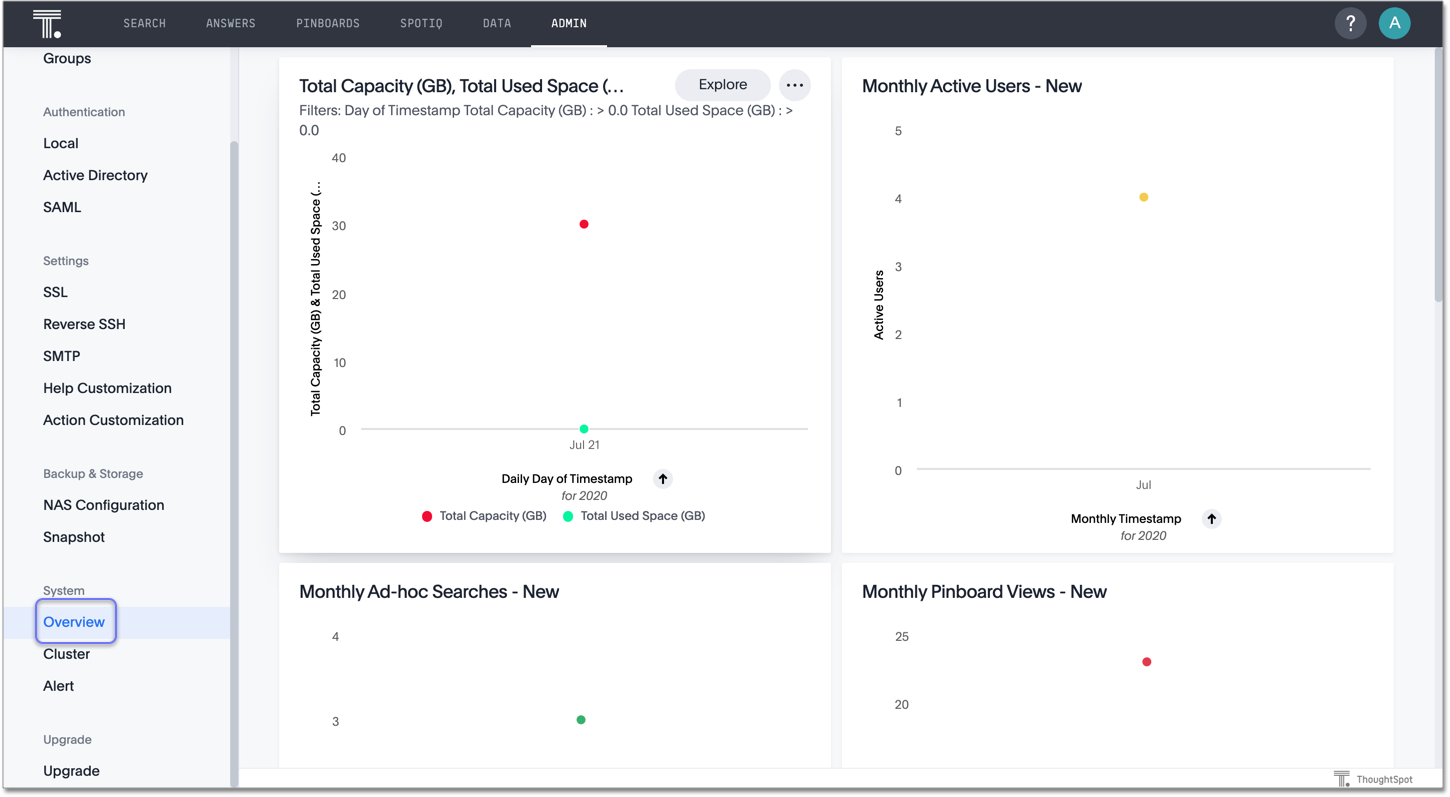
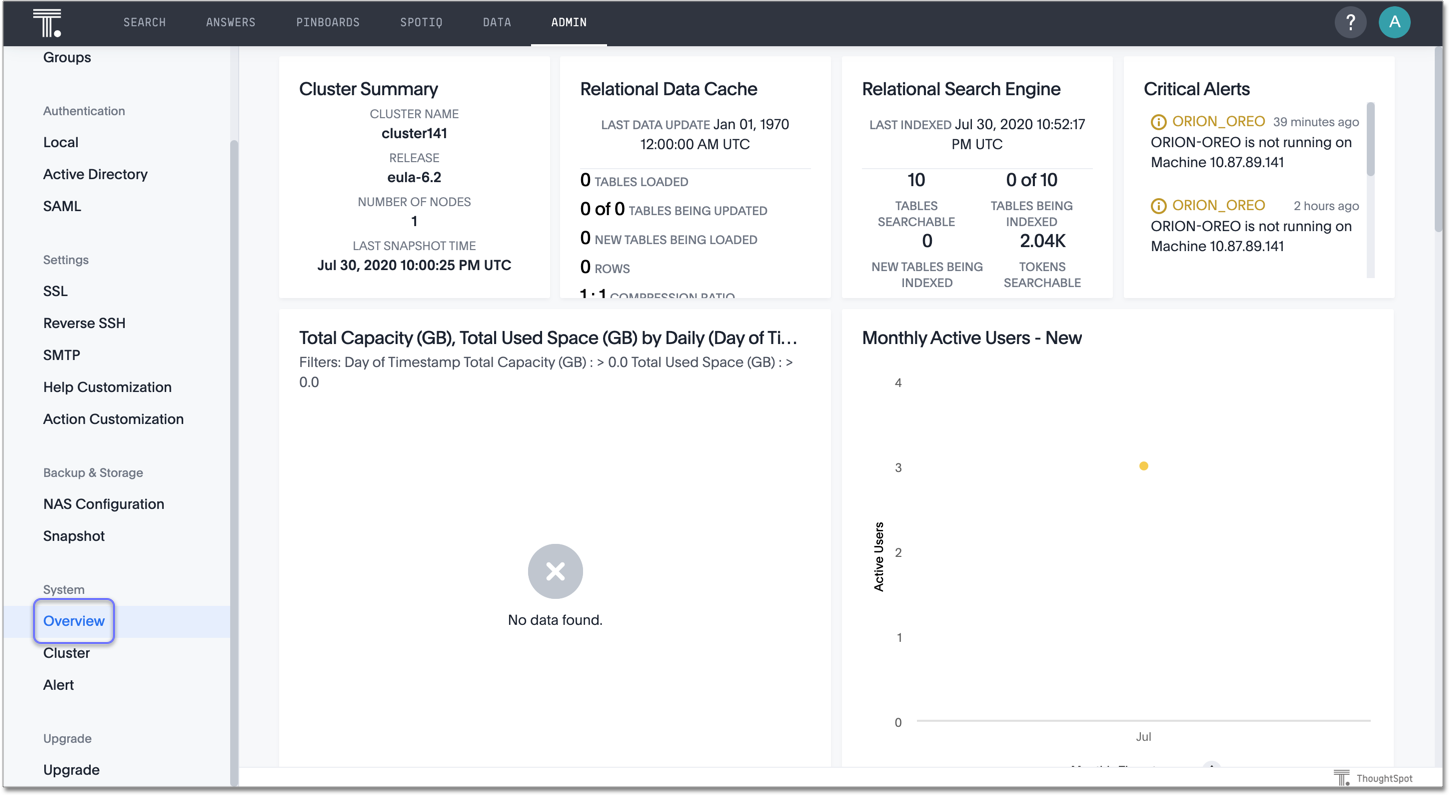
fixes to system pinboards info

diff --git a/_includes/content/admin-portal/system-overview-pinboard.md b/_includes/content/admin-portal/system-overview-pinboard.md
@@ -8,14 +8,133 @@ The **System Overview Pinboard** page consists of standard ThoughtSpot Answers t
 
 The **more options menu** ![]({{ site.baseurl }}/images/icon-more-10px.png){: .inline} for the Answers in this Pinboard contains fewer options than the traditional menu. You can **SpotIQ analyst**, **download**, **edit,** or **present** the Answer. When you **edit** the Answer, you see the query that ThoughtSpot built the Answer on. You can also copy the Answer's embed link, use [Answer Explorer]({{ site.baseurl }}/end-user/pinboards/answer-explorer.html) on the Answer, or interact with the Answer by [drilling down]({{ site.baseurl }}/complex-search/drill-down.html). While you can interact with and change a copied version of the Answer, you cannot save changes to the underlying query.
 
-The following charts are available on the **System Overview Pinboard**: [space utilization](#space-utilization), [monthly active users](#mau), [monthly ad-hoc searches](#monthly-searches), [monthly Pinboard views,](#monthly-pb-views), [top users last month](#top-users), [top Pinboards last month](#top-pinboards), [ad-hoc search by user](#searches-user), and [today's users](#users-today).
+The following chart, tables, and panels are available on the **System Overview Pinboard**: [cluster summary](#cluster-summary), [relational data cache](#relational-data-cache), [relational search engine](#relational-search-engine), [critical alerts](#critical-alerts), [space utilization](#space-utilization), [monthly active users](#mau), [monthly ad-hoc searches](#monthly-searches), [monthly Pinboard views,](#monthly-pb-views), [top users last month](#top-users), [top Pinboards last month](#top-pinboards), [ad-hoc search by user](#searches-user), and [today's users](#users-today).
+
+{: id="cluster-summary"}
+## Cluster Summary
+
+This system panel contains basic information about your cluster.  The **NUMBER OF
+NODES** is the number of installed nodes. This doesn't reflect the active nodes
+which may be more or less.
+
+This summary includes the **LAST SNAPSHOT TIME** it reflects whether regular
+snapshots of your cluster are collected. This value should update regularly in
+real time. If you do not see it change or empty, you should check your cluster
+snapshot policy using the `tscli` command:  
+
+```
+$ tscli snapshot-policy show
+schedule {
+  period {
+    number: 1
+    unit: HOUR
+  }
+  retention_policy {
+    bucket {
+      time {
+        number: 1
+        unit: HOUR
+      }
+      capacity: 3
+    }
+    bucket {
+      time {
+        number: 4
+        unit: HOUR
+      }
+      capacity: 2
+    }
+  }
+  offset_minutes_from_sunday_midnight: 0
+}
+enabled: false
+```
+
+You can see this policy is disabled, which is a problem. Production clusters
+should enable the default snapshot policy. When you show or enable the snapshot
+policy, you can see your `tscli` command reflected in the **Configuration
+Events** panel on this same page.
+
+### Display the features used in a cluster configuration
+
+1. Log in to the ThoughtSpot cluster as the `admin` user.
+2. Use the `tscli feature` subcommand to display your current configuration.
+
+    ```
+    $ tscli feature get-all-config
+    +---------------------------------+----------+---------------+
+    |              NAME               |  STATUS  | CONFIGURATION |
+    +---------------------------------+----------+---------------+
+    | Firewall                        | Disabled |               |
+    | Saml                            | Disabled |               |
+    | Ldap                            | Disabled |               |
+    | CustomBranding                  | Disabled |               |
+    | CustomBrandingFontCustomization | Disabled |               |
+    | DataConnect                     | Disabled |               |
+    | RLS                             | Enabled  |               |
+    | Callhome                        | Enabled  |               |
+    | SSHTunnel                       | Enabled  |               |
+    | Fileserver                      | Disabled |               |
+    +---------------------------------+----------+---------------+
+    ```
+
+{: id="relational-data-cache"}
+## Relational Data Cache
+
+This section reports real-time information about tables in your cluster.
+Worksheet data is not included.
+
+| Value  |  Description |
+|---|---|
+|  **TABLES LOADED** | Number of currently loaded tables.  |
+|  **TABLES BEING UPDATED** | Number of table loads in-progress. |
+|  **NEW TABLES BEING LOADED** | Number of tables being loaded for the first time.  |
+|  **ROWS** | Number of rows combined across all tables in ThoughtSpot.  |
+
+{: id="relational-search-engine"}
+## Relational Search Engine
+
+| Value  |  Description |
+|---|---|
+|  **TABLES SEARCHABLE** | Tables that are indexed and can be searched.  |
+|  **TABLES BEING INDEXED** | Total of in-progress table indexing. |
+|  **NEW TABLES BEING INDEXED** | Total of first-time, in-progress table indexing.  |
+|  **TOKENS SEARCHABLE** | Number of tokens of all table (combined) indexed in ThoughtSpot. |
+
+{: id="critical-alerts"}
+## Critical Alerts
+
+Displays critical and warning alerts. This includes when an alert was generated
+and from which service and machine. Administrators can get a custom report by
+issuing a `tscli alert list` on the appliance:
+
+```
+tscli alert list --since 4w
+```
+
+The critical alerts you can encounter in this display are the following:
+
+{% for item in site.data.extract-alerts.alerts %}  
+  {% if item.type == "CRITICAL" %}
+
+* `{{item.id}}`
+
+  **Msg**: `{{item.msg}}`
+
+  {{item.description}}
+   {% endif %}
+ {% unless forloop.last %}
+ {% endunless %}
+{% endfor %}
+
+The possible alert types are `CRITICAL`, `WARNING`, `ERROR`, and `INFO`. For a
+full reference, see the [Alert code reference]({{ site.baseurl
+}}/reference/alerts-reference.html#).
 
 {: id="space-utilization"}
 ## Space Utilization
 
-The **Space Utilization** chart is one of the available charts for you to use
-when checking the cluster overview. This line chart displays the total capacity
-and estimated used capacity over time.
+The **Space Utilization** chart displays your cluster's total capacity and estimated used capacity over time.
 
 ![Space utilization]({{ site.baseurl }}/images/admin-portal-overview-pinboard-space-utilization.png "Space Utilization")
 
@@ -137,7 +256,7 @@ The query uses the `TS: BI Server` data source.
 {: id="top-pinboards"}
 ## Top Pinboards Last Month
 
-This Answer shows the top ThoughtSpot Pinboards ranked by number of views in the last 30 days. 
+This Answer shows the top ThoughtSpot Pinboards ranked by number of views in the last 30 days.
 
 The query underlying this Answer is:
 
@@ -180,3 +299,54 @@ user !={null}
 today
 ```
 The query uses the `TS: BI Server` data source.
+
+## Configuration Events
+
+This system answer displays recent events that changed the configuration of the
+system. This panel displays configuration events related to:
+
+<table>
+    <colgroup>
+    <col width="25%" />
+    <col width="60%" />
+    </colgroup>
+      <tbody>
+       <tr>
+        <th>
+        Cluster Configuration
+        </th>
+        <td>Reports configuration actions from the <code>tscli</code> and <code>tql</code> commands. </td>
+       </tr>
+       <tr>
+        <th>
+         Metadata Management
+        </th>
+        <td>Events related to metadata such as column names, column visibility, column and data definition, column rank and so forth.</td>
+       </tr>
+       <tr>
+        <th>
+         User Management
+        </th>
+        <td>Events related to creating, updating, or adding new users and groups. </td>
+       </tr>
+       </tbody>
+    </table>
+
+For a more detailed list, including the user that issued a command, you can use
+the `tscli event list` command. Administrators can `ssh` into the cluster and
+specify a time period or even a type of command to include.
+
+```
+[admin@testsystem ~]$ tscli event list --since 3d
++-------------------------------+-----------------------+----------------------------+
+|             DATE              |       USER            |           SUMMARY          |
++-------------------------------+-----------------------+----------------------------+
+| 2018-03-06 11:57:10 -0800 PST |eadmin@thoughtspot.int | User Management: User      |
+|                               |                       | "guest_1" updated          |
+| 2018-03-06 11:48:10 -0800 PST |admin                  | tscli node ls              |
+| 2018-03-06 11:17:04 -0800 PST |eadmin@thoughtspot.int | Metadata Management:       |
+|                               |                       | Metadata object "Number of |
+|                               |                       | Opportunity                |
+|                               |                       | AE and Stage" of type      |
+...
+```
